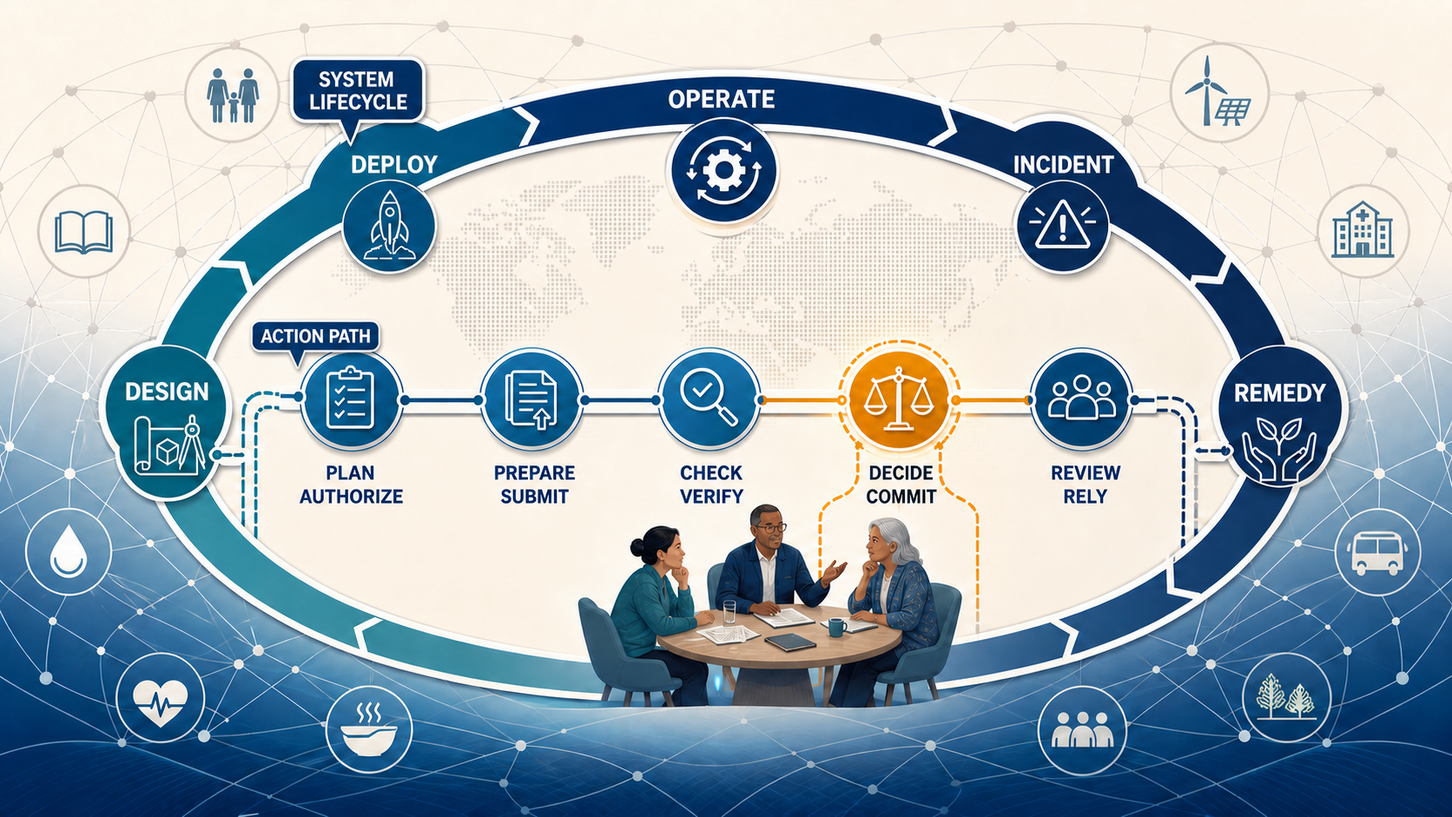
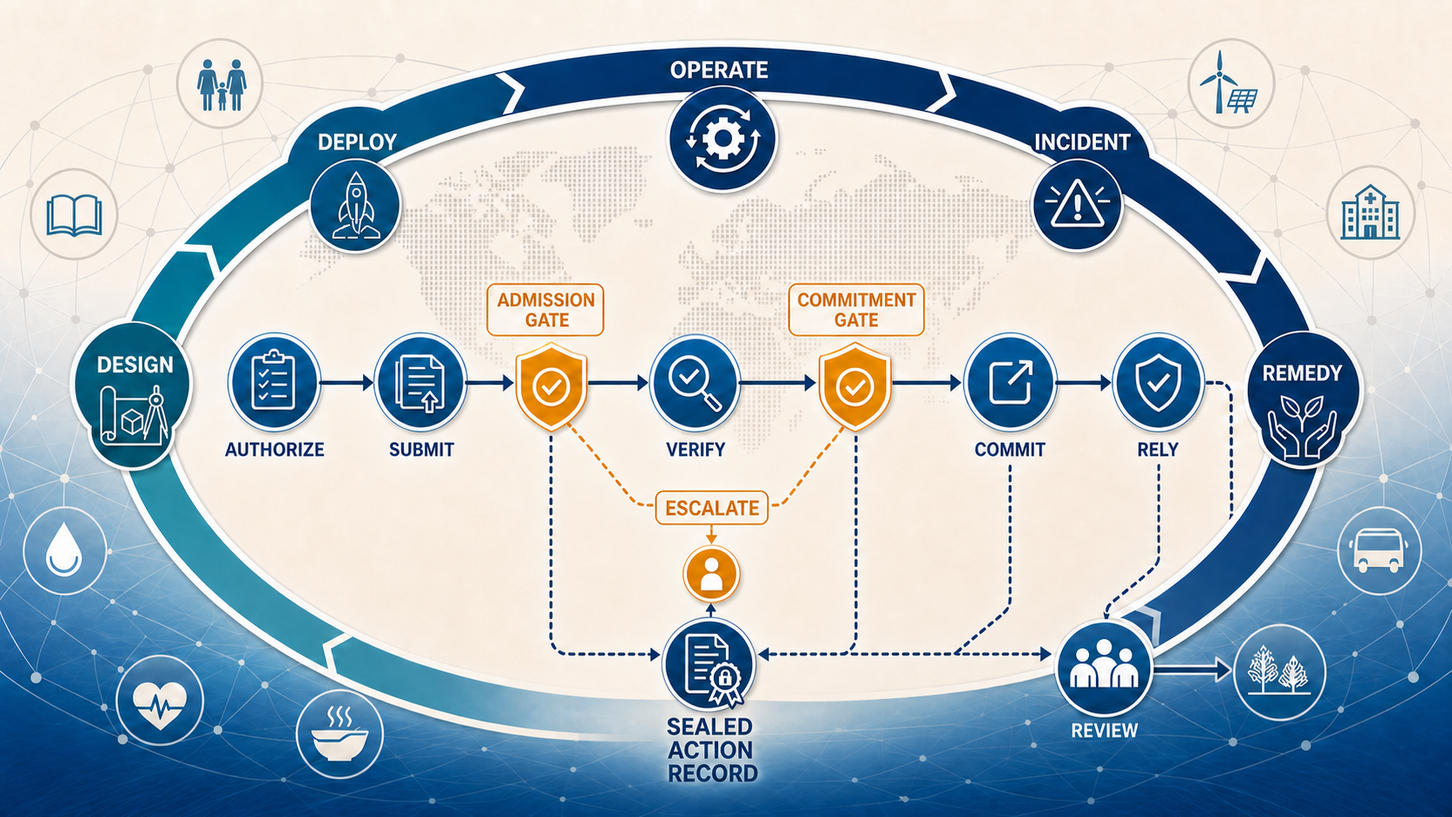
docs(runtime): sharpen interruption model

diff --git a/docs/wip/article-runtime-ai-governance-when.md b/docs/wip/article-runtime-ai-governance-when.md
@@ -10,7 +10,7 @@ My last article asked who gets to check the runtime gate. This one asks when it 
 
 The better rule:
 
-𝗚𝗼𝘃𝗲𝗿𝗻 𝘁𝗵𝗲 𝘁𝗿𝗮𝗻𝘀𝗶𝘁𝗶𝗼𝗻, 𝗻𝗼𝘁 𝗲𝘃𝗲𝗿𝘆 𝘀𝘁𝗲𝗽.
+𝗚𝗼𝘃𝗲𝗿𝗻 𝗲𝘃𝗲𝗿𝘆 𝗮𝘂𝘁𝗵𝗼𝗿𝗶𝘁𝘆-𝗯𝗲𝗮𝗿𝗶𝗻𝗴 𝘁𝗿𝗮𝗻𝘀𝗶𝘁𝗶𝗼𝗻 — 𝗻𝗼𝘁 𝗲𝘃𝗲𝗿𝘆 𝘁𝗼𝗸𝗲𝗻 𝗼𝗿 𝗺𝗲𝗰𝗵𝗮𝗻𝗶𝗰𝗮𝗹 𝘀𝘁𝗲𝗽.
 
 Runtime governance has two clocks:
 
@@ -21,13 +21,15 @@ For each action, the Our AI Charter model asks:
 
 𝗔𝘂𝘁𝗵𝗼𝗿𝗶𝘇𝗲 → 𝗦𝘂𝗯𝗺𝗶𝘁 → 𝗩𝗲𝗿𝗶𝗳𝘆 → 𝗖𝗼𝗺𝗺𝗶𝘁 → 𝗥𝗲𝗹𝘆
 
-Each time a model, tool, agent, or document contributes new material, the input and evidence checks re-open — fresh instructions and evidence must be screened, and drift reassessed. When nobody is in the seat, the checks do not disappear: a bounded mandate granted in advance replaces the click, and the service carrying out the action verifies that authority before anything becomes binding.
+Two boundaries matter most. Before inference, an admission gate checks whether new data, instructions, and tool output may enter the path. Before external effect, a commitment gate verifies the exact action, current authority, and policy again.
 
-That does not mean endless approval prompts. Trace wide. Escalate narrow. Preserve human attention for consequential boundaries: when evidence becomes a decision basis, authority expands, data crosses a trust boundary, a proposal becomes an external effect, or the system leaves its approved conditions.
+The acting model does not approve itself. An independent component returns allow, deny, or escalate; the user sees only what needs attention. Missing or expired authority fails closed. A human may choose among valid options, but cannot create a basis that is absent.
+
+That does not mean endless prompts. Preserve human attention for consequential boundaries: when evidence becomes a decision basis, authority expands, data crosses a trust boundary, a proposal becomes an external effect, or the system leaves its approved conditions.
 
 The practical test:
 
-Which transition must not occur without which evidence, whose authority, and what recoverable record?
+Which transition must not occur without which evidence, whose authority, and what action-scoped record?
 
 Full article below ↓
 
@@ -35,7 +37,7 @@ Full article below ↓
 
 ---
 
-![Two connected AI-governance clocks: an outer system lifecycle running Design, Deploy, Operate, Incident, and Remedy surrounds an inner action path pairing Plan/Authorize, Prepare/Submit, Check/Verify, Decide/Commit, and Review/Rely; a diverse independent review group sits at the amber Decide/Commit boundary](article-runtime-ai-governance-when.png)
+![Two connected AI-governance clocks: an outer system lifecycle runs Design, Deploy, Operate, Incident, and Remedy; an inner action path runs Authorize, Submit, Verify, Commit, and Rely, with machine-enforced admission and commitment gates outside the acting model, a human branch only on escalation, and a sealed action record feeding review and remedy](article-runtime-ai-governance-when.png)
 
 # When Should Runtime AI Governance Interrupt?
 
@@ -47,11 +49,13 @@ Ask a person to approve every step and the system trains them to stop reading. A
 
 The better rule is:
 
-> **Govern the transition, not every step.**
+> **Govern every authority-bearing transition — not every token or mechanical step.**
 
-Intervene when evidence becomes a decision basis, when authority expands, when data crosses a trust boundary — where control or assurance changes — when a proposal becomes an external effect, or when a live system leaves the conditions under which it was approved. Trace the rest. Those are the transitions this article names.
+Intervene when evidence becomes a decision basis, authority expands, data crosses a trust boundary, a proposal becomes an external effect, or a live system leaves the conditions under which it was approved. Those are changes in control, reliance, or consequence — not merely internal model-state changes.
 
-That is what *when* should mean.
+Three roles must not blur: the model proposes; a component outside the model decides under current policy and authority; the service producing the effect verifies that decision again.
+
+[Stuart-Mueller and Woodward's *The Wrong Layer*](https://doi.org/10.5281/zenodo.21397661) supplies an important premise: governance needs per-action evidence that a consequential machine action was authorized, admissible, and bounded when it occurred. The Charter model developed here adds a two-clock timing structure, five public-facing gates, and the institutional route from record to independent review and remedy.
 
 ## The “when” has two clocks
 
@@ -61,9 +65,9 @@ The first clock is the life of the system:
 
 **design → deploy → operate → incident → remedy**
 
-Before deployment, the provider and deployer define purpose, risk, limits, evidence, responsibilities, and exit conditions. During operation, they monitor performance, dependencies, misuse, drift, complaints, and material changes. When the system fails, they investigate, correct, constrain, roll back, or withdraw it. Afterwards, affected people still need a route to challenge the decision and obtain a remedy.
+Before deployment, the provider and deployer define purpose, limits, evidence, responsibilities, and exit conditions. During operation, they monitor performance, drift, complaints, and material changes. Failure triggers investigation, constraint, rollback, withdrawal, or remedy.
 
-This is not a novel rejection of existing governance. The [NIST AI Risk Management Framework](https://airc.nist.gov/airmf-resources/airmf/5-sec-core/) treats risk management as continuous across the lifecycle and includes post-deployment monitoring, appeal, override, recovery, and decommissioning. For high-risk systems, the [EU AI Act](https://eur-lex.europa.eu/eli/reg/2024/1689/oj/eng) pairs human oversight (Article 14) with post-market monitoring (Article 72) and serious-incident reporting (Article 73). The July 2026 [Digital Omnibus on AI](https://eur-lex.europa.eu/eli/reg/2026/1744/oj/eng) (Regulation (EU) 2026/1744) moved the application of the Chapter III high-risk duties, including Article 14, to 2 December 2027 for Annex III systems and 2 August 2028 for product-based Annex I systems. Agentic systems are shipping now.
+The [NIST AI Risk Management Framework](https://airc.nist.gov/airmf-resources/airmf/5-sec-core/) similarly treats risk management as continuous. The [EU AI Act](https://eur-lex.europa.eu/eli/reg/2024/1689/oj/eng) pairs oversight with post-market monitoring and incident reporting; the July 2026 [Digital Omnibus on AI](https://eur-lex.europa.eu/eli/reg/2026/1744/oj/eng) moved the application of its high-risk duties to December 2027 or August 2028, depending on the system class. Agentic systems are shipping now.
 
 The second clock is the life of one AI-supported action:
 
@@ -77,77 +81,66 @@ The [Our AI Charter runtime reference model](../Assurance/Concepts/user-workflow
 4. **Decide → Commit.** May this exact action, for this purpose, target, cost, and consequence, become externally effective?
 5. **Review → Rely.** Does the decision remain supportable, monitored, correctable, challengeable, and reversible or withdrawable where possible?
 
-The gates are not a single pass. Every model, tool, or agent hop re-arms **Submit** and **Verify**: fresh material enters the system and fresh claims enter its reasoning. Untrusted web pages, documents, messages, and tool output are where injected instructions arrive, so Submit is a recurring boundary check, not a session-opening decision.
+Two enforceable boundaries anchor the path:
 
-The model was written for a person in the seat. When the seat is empty, the gates do not disappear; they change enforcer. Authorize moves up to the bounded mandate a person or institution issued in advance; boundary controls, evidence checks, and policy components outside the acting model enforce Submit and Verify; and the service executing the action enforces Commit downstream. A gate must not quietly vanish because no one was there to pass it.
+- **Admission boundary — before reliance or inference.** May these instructions, data, resource identifiers, tool structures, and outputs enter this action path? Their origin, integrity, rights, policy fit, and trust status are checked before the acting model may rely on them.
+- **Commitment boundary — before external effect.** May this exact proposal become a tool call, message, payment, filing, deployment, decision, or other effect under the current mandate and policy? The executing service checks again rather than trusting the model's claim that approval occurred.
 
-The first clock asks whether the system should remain in service. The second asks whether this action should move to its next state. They must be wired together. A rising rate of denials, escalations, overrides, or uneven outcomes on the action clock is a signal to constrain, reassess, or withdraw the release on the system clock. A suspension, policy change, or withdrawal on the system clock must invalidate affected authority already issued and still in flight.
+Every model, tool, or agent hop re-arms **Submit** and **Verify**. Machine controls can establish provenance, signatures, required fields, policy version, and source admissibility; they cannot deterministically establish that disputed evidence is true, sufficient, or fair. Those judgments need an accountable route, with uncertainty preserved.
 
-## Stop where power changes hands
+When nobody is in the seat, the gates do not disappear; they change enforcer. **Authorize** moves up to a bounded mandate granted in advance, external components enforce the admission and commitment rules, and only a valid escalation route can interrupt a person. A gate must not vanish because no one was there to click it.
 
-Not every transition deserves the same response. The runtime model’s core operating rule is **trace wide, escalate narrow**: preserve a reviewable path, but interrupt a person only when the interruption can materially improve a sufficiently important outcome.
+The first clock asks whether the system should remain in service. The second asks whether this action should advance. They must be wired together: rising denials, escalations, overrides, or uneven outcomes can constrain or withdraw a release; a lifecycle suspension or policy change must invalidate affected authority already issued and in flight.
 
-Everything is traced. What varies is whether a person is interrupted:
+## The gate decides before the interface interrupts
 
-- **Silent** — trace routine, reversible activity inside an authorized envelope and proceed.
-- **Flag** — surface a material concern without blocking where proceeding preserves the user’s options.
+For each consequential transition, a component independent of the acting model returns **allow, deny, or escalate** against the current mandate and policy. Missing, ambiguous, expired, revoked, broadened, substituted, or replayed authority fails closed. A human approval cannot create a missing legal, policy, evidentiary, or institutional basis.
+
+Only then does the user experience vary:
+
+- **Silent** — record an allowed, routine, reversible action inside the authorized envelope without prompting.
+- **Flag** — surface a concern without blocking only where a valid basis already exists and proceeding crosses no consequential boundary.
 - **Stop** — block for a decision when proceeding would cross a consequential boundary without adequate evidence or authority.
 
-A stop should be ready when an action is irreversible, external, regulated, or person-affecting; when it creates a legal or financial obligation; when personal or protected data would leave a trust boundary; when the agent seeks a new tool, privilege, recipient, or purpose; when evidence conflicts on a load-bearing point; or when prompt injection, manipulation, or scope drift may have redirected the task.
+A denial may never interrupt a person if a safe fallback exists. An escalation produces a Stop. An allow may carry a Flag, but not where the concern undermines the basis for a consequential transition.
 
-The trigger alone is not enough. Human escalation is justified when three conditions hold together:
+A Stop is required when an action would be irreversible, external, regulated, or person-affecting without the declared basis; when it creates a legal or financial obligation; when protected data would leave a trust boundary; when the agent seeks a new tool, privilege, recipient, or purpose; when evidence conflicts on a load-bearing point; or when manipulation, injected instructions, or corrupted context may have redirected the task.
+
+Human escalation is justified when three conditions hold together:
 
 1. a human or independent reviewer can still change the outcome;
 2. the stakes justify interruption; and
 3. the system cannot responsibly resolve the issue inside its existing authority.
 
-This is more concrete than “keep a human in the loop.” It says which decision the human must make, why it matters now, and what the system must do if no valid decision arrives. Silence may select only a declared reversible default already within existing authority; it cannot grant or extend authority. This preserves human attention for Stop gates that can still change a material outcome instead of spending it on routine, reversible approvals.
+The escalation names the rule, decision, eligible role, evidence, response bound, valid options, safe default, and record consequences. The person may allow within existing authority, deny, narrow, seek review, cancel, reverse, or route to remedy. Silence may select only a declared reversible fallback; it cannot grant authority.
 
 ## Autonomy needs bounded authority, not endless prompts
 
 High-frequency and autonomous systems cannot ask for fresh approval at every mechanical step. Nor should they receive a standing permission to do whatever becomes convenient.
 
-The workable middle is a **bounded operating envelope**. A person or accountable institution authorizes a defined purpose, action class, tools, data, recipients, budget, rate and volume ceilings, number of people who may be affected, duration, geography, risk level, and limits on delegation. The envelope has an expiry, a revocation path, monitoring, rollback, and a safe stop. A material change reopens the decision.
+The workable middle is a **bounded operating envelope**. Its baseline identifies the principal, purpose, action class, tools, data, recipients, budget and volume ceilings, affected population, duration, risk level, and delegation limits. It has an expiry, revocation path, monitoring, rollback, and safe stop.
+
+An exception is a visible state transition, not new standing authority. It applies to a defined action, tool, turn, or scope; expires; and returns the path to its baseline. Context may persist. Permission must not persist silently with it.
 
 Aggregate limits matter as much as per-action limits. A thousand individually admissible actions can compose an effect nobody authorized, so the gate needs cumulative counters and aggregate escalation triggers, not only a per-request test.
 
-## What must be true at the gate
+The draft [Charter Commitments](../Assurance/Framework/charter-commitments.md) and [agentic-control working note](ambient-agentic-ai-control.md#7-a-compliant-technical-control-plane) specify the implementation: freeze the proposal; bind it to a current, revocable mandate and policy; gate it outside the acting model; re-verify it at the executing service; and seal the decision before effect in an action-scoped record. Delegation cannot broaden authority. Stale or unavailable authority fails closed, and interrupted workflows need a recovery owner.
 
-The five gates form a timeline: they say when and why governance should intervene. The Charter requirements form a control-and-evidence specification: they say what must be true — and what evidence must survive — for a consequential action to cross those boundaries. They do not map one-to-one: the structured proposal carries Submit and Verify into Commit, while the action-and-effect record connects the path through Rely.
-
-The draft [Charter Commitments](../Assurance/Framework/charter-commitments.md) make this operational for consequential actions; the [agentic-control working note](ambient-agentic-ai-control.md#7-a-compliant-technical-control-plane) develops one implementation path:
-
-1. separate observation, inference, recommendation, preparation, authorization, commitment, and external effect;
-2. record the exact proposal before commitment;
-3. bind the action to a specific, purpose-limited, time-limited, revocable mandate that is no broader than necessary, with a reviewable authority chain — the path from the person granting authority through every agent and service that acts — and a rule for overlapping or superseded mandates;
-4. have a component independent of the acting model return **allow, deny, or escalate** against the current mandate and policy;
-5. route each escalation under a declared human-intervention contract that names the event and rule, exact decision, eligible role and substitute, evidence and options, response bound and safe default, permitted dispositions, and record and monitoring consequences;
-6. require the service producing the external effect to verify the exact authority and parameters again; and
-7. join the proposal, authority, decision, effect, review, and remedy in a privacy-preserving, tamper-evident record that yields a receipt and routes for cancellation, reversal, compensation, challenge, and remedy.
-
-The acting model must not approve its own request. Every consequential path must pass the gate, and each delegated agent must receive no more authority than its parent currently holds. Ambiguous, expired, revoked, broadened, substituted, or replayed authority fails closed: the action does not proceed.
-
-Unavailable authority also fails closed by default. A signed mandate may support bounded offline verification only where its scope, short validity window, maximum allowed policy lag, revocation model, and residual risk were declared in advance; an indefinite cached *allow* is not a substitute for a current check. Revocation and narrowing must propagate through the delegation chain within a published bound. An action in flight when authority or policy changes is cancelled or, if already committed, routed to reversal and remedy. An interrupted multi-step workflow needs a named recovery owner responsible for cancellation, reversal, or compensation when partial commitment cannot be cleanly undone.
-
-**Silent, Flag, and Stop** describe the user experience; **allow, deny, and escalate** are machine gate responses. They map to each other but are not synonyms: *escalate* produces a Stop, *deny* may never interrupt a person if a safe fallback exists, and *allow* may still carry a Flag.
-
-The pieces are feasible even though the general system is unfinished. [OAuth Rich Authorization Requests](https://datatracker.ietf.org/doc/html/rfc9396) already shows how fine-grained transaction details can be bound to an authorization request. The US National Cybersecurity Center of Excellence’s February 2026 [draft concept paper](https://www.nccoe.nist.gov/sites/default/files/2026-02/accelerating-the-adoption-of-software-and-ai-agent-identity-and-authorization-concept-paper.pdf) for a potential demonstration project explores agent identification, authorization, access delegation, intent, binding agent actions to human identity, verifiable auditing, and prompt-injection controls. That is a signal that standards work is starting, not that it is finished. The OWASP [LLM Prompt Injection Prevention Cheat Sheet](https://cheatsheetseries.owasp.org/cheatsheets/LLM_Prompt_Injection_Prevention_Cheat_Sheet.html) recommends least-privilege tools and screening proposed actions against the user’s original intent; [LLM06:2025 Excessive Agency](https://genai.owasp.org/llmrisk/llm062025-excessive-agency/) adds downstream, user-context execution and approval for high-impact actions.
-
-These are building blocks, not proof that runtime accountability is solved.
+Existing building blocks include fine-grained authorization in [OAuth Rich Authorization Requests](https://datatracker.ietf.org/doc/html/rfc9396), the February 2026 [NCCoE agent-identity concept paper](https://www.nccoe.nist.gov/sites/default/files/2026-02/accelerating-the-adoption-of-software-and-ai-agent-identity-and-authorization-concept-paper.pdf), and OWASP guidance on [prompt injection](https://cheatsheetseries.owasp.org/cheatsheets/LLM_Prompt_Injection_Prevention_Cheat_Sheet.html) and [excessive agency](https://genai.owasp.org/llmrisk/llm062025-excessive-agency/). They do not yet form a complete accountability system.
 
 ## Consider one public decision
 
 Imagine an AI assistant supporting a public grant decision.
 
-At **Plan**, the agency decides whether this system is suitable and what it may do: retrieve permitted material, compare an application with published criteria, draft an assessment, and identify uncertainty. It may not invent a criterion, change the programme’s purpose, or make the final award.
+At **Plan**, the agency authorizes the system to retrieve permitted material, compare it with published criteria, draft an assessment, and identify uncertainty — but not invent criteria or make the award.
 
-At **Prepare**, applicant data can enter only through the approved system and for the declared purpose. A request to send the file to an unapproved model or tool stops at the boundary.
+At **Prepare**, applicant data may enter only the approved system for the declared purpose. An unapproved model or tool stops at the admission boundary.
 
-At **Check**, the assistant links findings to the application and criteria. A minor ambiguity may be flagged. Missing evidence on an eligibility condition, conflicting records, or a suspected injected instruction stops the path before the output becomes a decision basis. A draft is only a draft while nothing relies on it; filing it in the case record or using it to frame the decision has already crossed that boundary.
+At **Check**, machine controls confirm source and integrity; an accountable reviewer judges disputed meaning or sufficiency. Missing eligibility evidence, conflicting records, or corrupted context stops the path before the output becomes a decision basis. That transition maps to an observable event: filing the draft, presenting it in the decision interface, or feeding it to the next stage.
 
-At **Decide**, before an award, rejection, notification, or payment becomes effective, the commit gate binds the exact applicant, programme rule, amount, evidence, disclosed data, decision-maker, and current policy version. A properly authorized official reviews the consequential judgment, but review quality is not established by a click. Workload, time-on-task distributions, override and divergence rates, and sampled reasoning quality are monitored together, with the sampling done from outside the deciding unit. A reviewer who never disagrees is a finding, not a reassurance. The executing service verifies the mandate rather than trusting the model’s claim that approval occurred.
+At **Decide**, the commit gate binds the applicant, rule, amount, evidence, disclosed data, decision-maker, and policy version. An official chooses only among valid dispositions; the executing service verifies the gate decision rather than trusting a model claim or bare approval click.
 
-At **Review**, the applicant receives, as of right, a scoped extract of their own determination: the decision, its basis, the policy version, the authority chain, the human-intervention event, and the challenge route — plus a receipt showing that the full record was lodged. The agency preserves the decision basis, authority, intervention event, and outcome; monitors repeated errors and uneven outcomes; and corrects, reopens, or withdraws reliance when the evidence no longer holds.
+At **Review**, the applicant receives a scoped extract of the determination and a receipt showing that the full record was lodged. The agency monitors errors and uneven outcomes, and corrects, reopens, or withdraws reliance when the basis no longer holds.
 
 The point is not to automate public judgment. It is to prevent automation from quietly crossing the line between assisting a judgment and exercising power.
 
@@ -155,13 +148,11 @@ The point is not to automate public judgment. It is to prevent automation from q
 
 Runtime governance fails if it produces only a green light.
 
-The decision record should be sufficient to reconstruct the proposal, material evidence and uncertainty, authority chain, policy and system version, admissibility decision, commitment, external effect, human-intervention event, and route to challenge or remedy. It should also say what was deliberately not captured and why.
+Every gate decision and consequential action is recorded. The record is sealed before effect and bound to what the service did. It preserves the proposal, material evidence and uncertainty, authority, policy and system version, gate decision, effect, intervention, and challenge route.
 
-But accountability must not become ambient surveillance. The record’s subject is the consequential action and its authority, not the whole conversation. Access should be role-scoped, sensitive content protected, and every deeper access itself logged. The Charter’s [split-custody proposal](split-custody-per-action-records.md) separates content, integrity, survivability, and access so neither the operator nor an evidence custodian quietly controls the whole record.
+Accountability must not become ambient surveillance. The record's subject is the action and its authority, not every token or the whole conversation. Access is role-scoped and logged. The Charter's [split-custody proposal](split-custody-per-action-records.md) separates content, integrity, survivability, and access.
 
-This is also why **Review** belongs inside the runtime model. A system is not governable merely because it paused at the right moment. It must preserve enough evidence for correction and challenge, learn from failures, and stop relying on conditions that have changed.
-
-One limit belongs in the open. These mechanisms protect a record that was created; they cannot expose a determination that was never recorded or was false when created. That gap is institutional, not cryptographic: it needs a duty to lodge, an affected person’s right to discover that a decision was made about them, and independent custody or oversight able to notice when the expected record is missing.
+One limit belongs in the open. These mechanisms protect a record that was created; they cannot expose a determination that was never recorded or was false when created. That gap is institutional, not cryptographic: it needs a duty to lodge, an affected person's right to discover that a decision was made about them, and independent oversight able to notice when an expected record is missing.
 
 ## What “when” does not solve
 
@@ -177,11 +168,9 @@ The useful question is not simply, “Is there a human in the loop?”
 
 Ask instead:
 
-> **Which transition must not occur without which evidence, whose authority, and what recoverable record?**
+> **Which transition must not occur without which evidence, whose authority, and what action-scoped, tamper-evident record?**
 
 If the system cannot answer, it should not cross that boundary.
-
-This is how the Charter’s five public obligations reach runtime: not as labels, but as controls that keep actions purpose-bound; answerable to people; safe, secure, private, and resilient; fair in practice; and open to evidence and correction. Fairness cannot be established by a single gate. Per-action checks must screen for unjustified treatment, while aggregate outcome monitoring reveals patterns that individual checks cannot.
 
 Runtime governance gets *when* right when it governs the handoffs:
 
@@ -191,7 +180,7 @@ Runtime governance gets *when* right when it governs the handoffs:
 - from ordinary operation to escalation when the action leaves its approved envelope;
 - from incident to correction, withdrawal, and remedy while the evidence still survives.
 
-Govern the transition. Preserve the record. Keep the power answerable to the people who bear its consequences.
+Govern every authority-bearing transition. Preserve the action-scoped record. Keep the power answerable to the people who bear its consequences.
 
 **Built by many. Accountable to all.**
 

diff --git a/CHANGELOG.md b/CHANGELOG.md
@@ -3,6 +3,7 @@
 Notable changes to the charter and its drafts. Dates are ISO (YYYY-MM-DD).
 
 ## 2026-07-30
+- **Runtime “when” draft receives an attribution-and-enforcement pass** — directly credits Stuart-Mueller & Woodward's *The Wrong Layer* and distinguishes the Charter's two-clock, five-gate, review-and-remedy contribution; moves model-independent **allow / deny / escalate** ahead of the user-facing states; separates admission-before-reliance from commitment-before-effect; makes stale or missing authority fail closed; limits records to action-scoped evidence; and replaces the human-at-Commit hero image with machine gates, a single escalation branch, and a sealed action record. The article was tightened from about 2,580 to 1,940 words; *WORKING NOTES* status unchanged.
 - **Charter v0.17 defines human intervention as an executable contract** — the runtime reference model now requires each material Stop or escalation to declare its triggering event and rule, decision, authorized role and substitute, decision basis, response bound and safe default, permitted dispositions, record, and monitoring consequence. The consequential-action baseline makes that contract assessable, routes decisions by authority rather than proximity, and requires intervention patterns to feed re-scoping, re-authorization, constraint, suspension, or withdrawal. The runtime article and agentic-control and split-custody notes are aligned; README and site-index descriptions updated; statuses unchanged.
 - **Final review pass on the runtime “when” draft** — the system clock's third phase is now **operate**, matching the hero image and freeing *runtime* to name the practice rather than a phase. The gate specification moves into its own **What must be true at the gate** section; the closing five-obligations claim now distinguishes per-action fairness checks from aggregate outcome monitoring; meaningful-review sampling is done from outside the deciding unit; and the accompanying feed post leads with the approval-fatigue hook. Regulation (EU) 2026/1744 is cited by its official short title, **Digital Omnibus on AI**, in the article, the [agentic-control note](docs/wip/ambient-agentic-ai-control.md), and the draft-notes index. Statuses unchanged.
 - **Runtime user-workflow labels clarified repository-wide** — the five user-facing steps are now **plan → prepare → check → decide → review**, paired with the unchanged operational gates **authorize → submit → verify → commit → rely**. The reference model now places provider/system suitability under Plan/Authorize and keeps Prepare/Submit focused on material entering the system. The runtime article draft and the relevant Published article copy are aligned; statuses are unchanged.

diff --git a/docs/wip/README.md b/docs/wip/README.md
@@ -25,7 +25,7 @@ This is a public repository. Do not paste private meetings, correspondence, outr
 
 ## Draft articles
 
-- **[article-runtime-ai-governance-when.md](article-runtime-ai-governance-when.md)** — companion to the published *when vs. who* article: defines *when* through two clocks (system lifecycle and action), five runtime gates, human-intervention contracts, *trace wide, escalate narrow*, bounded authority for autonomous use, and the transition from proposal to external effect.
+- **[article-runtime-ai-governance-when.md](article-runtime-ai-governance-when.md)** — companion to the published *when vs. who* article: governs authority-bearing transitions through two clocks, five gates, machine-enforced admission and commitment boundaries, fail-closed bounded authority, narrow human escalation, and an action-scoped record from gate decision to effect and remedy.
 
 ## Assurance & accountability
 
